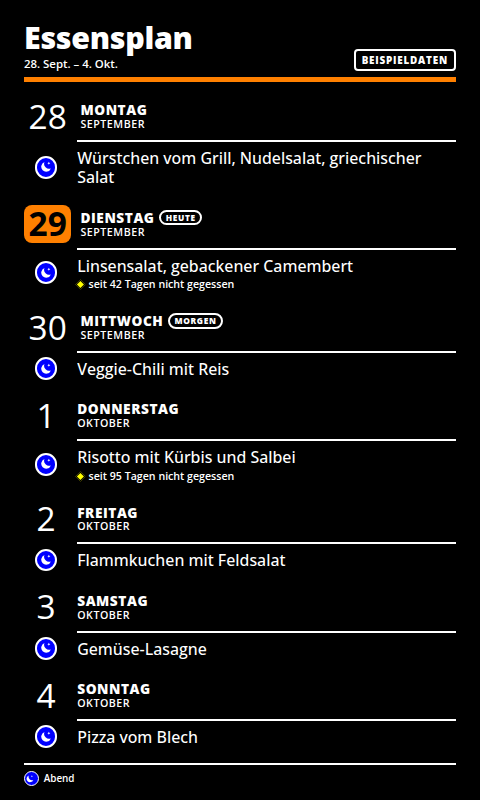
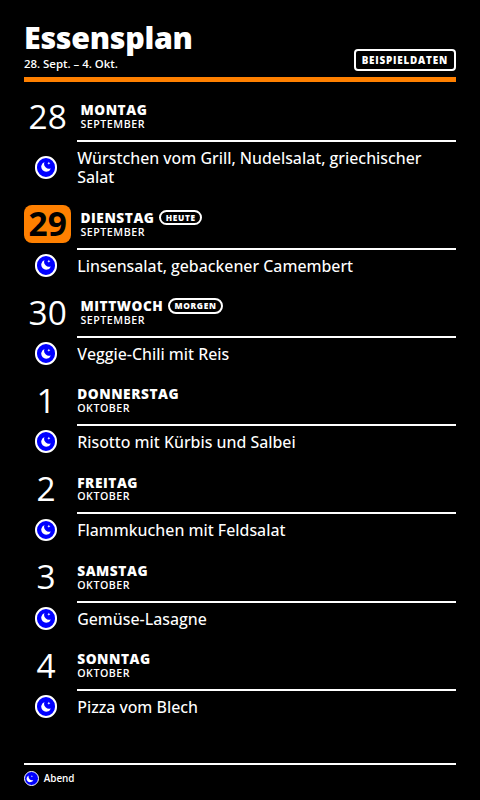
Remove "not eaten for X days" hint from Meal Plan Calendar
The calendar does not carry this information, so drop the history-based
hint, its showLastEaten/lastEatenMinDays settings, the extended history
fetch range, sample history entries, styles, texts, tests and docs.

Claude-Session: https://claude.ai/code/session_016spRLE17zGqgwacGFc512h

Changed region(s): [[0.0625, 0.3125, 0.9375, 0.9375]]

diff --git a/applications/meal-plan-calendar/api/data.js b/applications/meal-plan-calendar/api/data.js
@@ -9,9 +9,6 @@ import {
   stringSetting,
 } from "../../_shared/calendar-feed.js";
 
-// iCloud public feeds keep roughly the last six months; look back a little further
-// so other feeds with longer histories can still report "not eaten for X days".
-const HISTORY_DAYS = 400;
 const MAX_PLAN_DAYS = 14;
 const SLOT_ORDER = ["breakfast", "lunch", "dinner", "other"];
 const SLOT_SETS = {
@@ -35,10 +32,6 @@ const SEPARATOR = /^[\s:|/–—-]+/u;
 export function addDays(key, amount) {
   const [year, month, day] = key.split("-").map(Number);
   return new Date(Date.UTC(year, month - 1, day + amount)).toISOString().slice(0, 10);
-}
-
-export function daysBetween(fromKey, toKey) {
-  return Math.round((Date.parse(`${toKey}T00:00:00Z`) - Date.parse(`${fromKey}T00:00:00Z`)) / 86_400_000);
 }
 
 function weekdayIndex(key) {
@@ -117,14 +110,8 @@ export function planRange({ now, timeZone, days, startDay }) {
   return { today, start, endExclusive: addDays(start, days) };
 }
 
-/** Groups meals into display days, adds empty slot placeholders and "last eaten" hints. */
-export function buildPlan(meals, { today, start, days, slots, showLastEaten = true, lastEatenMinDays = 30 }) {
-  const history = new Map();
-  for (const meal of meals) {
-    if (meal.date >= today) continue;
-    const key = normalizeMealTitle(meal.title);
-    if (key && (!history.has(key) || history.get(key) < meal.date)) history.set(key, meal.date);
-  }
+/** Groups meals into display days and adds placeholders for empty planned slots. */
+export function buildPlan(meals, { start, days, slots }) {
   const plannedSlots = SLOT_SETS[slots] || SLOT_SETS["lunch-dinner"];
   const result = [];
   for (let index = 0; index < days; index += 1) {
@@ -143,13 +130,7 @@ export function buildPlan(meals, { today, start, days, slots, showLastEaten = tr
       const dedupeKey = `${entry.slot}:${normalizeMealTitle(entry.title)}`;
       if (seen.has(dedupeKey)) continue;
       seen.add(dedupeKey);
-      let lastEatenDays = null;
-      const last = history.get(normalizeMealTitle(entry.title));
-      if (showLastEaten && date >= today && last) {
-        const gap = daysBetween(last, today);
-        if (gap >= lastEatenMinDays) lastEatenDays = gap;
-      }
-      dayMeals.push({ slot: entry.slot, title: entry.title, lastEatenDays });
+      dayMeals.push({ slot: entry.slot, title: entry.title });
     }
     for (const slot of plannedSlots) {
       if (!dayMeals.some((meal) => meal.slot === slot)) dayMeals.push({ slot, title: "", empty: true });
@@ -194,11 +175,6 @@ export function sampleEvents(start, language, slots = "lunch-dinner") {
     }
     events.push({ id: `sample-d-${index}`, title: dinner, start: { date }, end: { date: addDays(date, 1) } });
   }
-  // Past entries let the sample show the "not eaten for X days" hint.
-  for (const [offset, dish] of [[-94, dishes[3][withLunch ? 0 : 1]], [-41, dishes[1][1]]]) {
-    const past = addDays(start, offset);
-    events.push({ id: `sample-history${offset}`, title: dish, start: { date: past }, end: { date: addDays(past, 1) } });
-  }
   return events;
 }
 
@@ -213,11 +189,7 @@ export default async function handler({ query = {} }) {
   const slots = SLOT_SETS[slotsSetting] ? slotsSetting : "lunch-dinner";
   const allDaySetting = stringSetting(query, "allDayMeal", "dinner");
   const allDayMeal = ALL_DAY_SLOTS.has(allDaySetting) ? allDaySetting : "dinner";
-  const showLastEaten = booleanSetting(query, "showLastEaten", true);
-  const lastEatenMinDays = integerSetting(query, "lastEatenMinDays", 30, 1, 3650);
   const range = planRange({ now: stringSetting(query, "now", ""), timeZone, days, startDay });
-  const historyStart = addDays(range.today, -HISTORY_DAYS);
-  const fetchFrom = historyStart < range.start ? historyStart : range.start;
 
   let events;
   let calendarName = "";
@@ -226,7 +198,7 @@ export default async function handler({ query = {} }) {
   } else {
     const ics = await fetchCalendarFeed({ feedUrl: calendarUrl });
     const parsed = parseCalendarFeed(ics, {
-      from: fetchFrom,
+      from: range.start,
       to: range.endExclusive,
       timeZone,
       maxEvents: 5000,
@@ -236,7 +208,7 @@ export default async function handler({ query = {} }) {
   }
 
   const meals = eventsToMeals(events, { timeZone, allDayMeal, rangeEndExclusive: range.endExclusive });
-  const plan = buildPlan(meals, { ...range, days, slots, showLastEaten, lastEatenMinDays });
+  const plan = buildPlan(meals, { ...range, days, slots });
 
   return {
     sample,

diff --git a/applications/meal-plan-calendar/assets/render.js b/applications/meal-plan-calendar/assets/render.js
@@ -21,8 +21,6 @@ const defaults = {
   startDay: "today",
   slots: "lunch-dinner",
   allDayMeal: "dinner",
-  showLastEaten: true,
-  lastEatenMinDays: 30,
   timeZone: "Europe/Berlin",
   showHeader: true,
   sampleData: false,
@@ -119,20 +117,12 @@ function renderMeal(meal, previousSlot, messages) {
   const classes = ["mp-meal"];
   if (meal.empty) classes.push("is-empty");
   if (meal.slot === previousSlot) classes.push("is-repeat");
-  let note = "";
-  if (Number.isFinite(meal.lastEatenDays)) {
-    const text =
-      meal.lastEatenDays === 1
-        ? messages.lastEatenOne
-        : fill(messages.lastEaten, { days: meal.lastEatenDays });
-    note = `<span class="mp-note">${escapeHtml(text)}</span>`;
-  }
   // Bound pathological calendar titles; the layout fit handles everything shorter.
   const raw = meal.empty ? messages.notPlanned : meal.title;
   const title = raw.length > MAX_TITLE ? `${raw.slice(0, MAX_TITLE).replace(/\s+\S*$/, "")}…` : raw;
   return `<li class="${classes.join(" ")}" data-slot="${escapeHtml(meal.slot)}">
     ${slotBadge(meal.slot, slotLabel)}
-    <span class="mp-text"><span class="mp-title">${escapeHtml(title)}</span>${note}</span>
+    <span class="mp-text"><span class="mp-title">${escapeHtml(title)}</span></span>
   </li>`;
 }
 
@@ -265,8 +255,6 @@ async function loadPlan(settings, language) {
       startDay: settings.startDay,
       slots: settings.slots,
       allDayMeal: settings.allDayMeal,
-      showLastEaten: settings.showLastEaten,
-      lastEatenMinDays: settings.lastEatenMinDays,
       timeZone: settings.timeZone,
       sampleData: settings.sampleData,
       now: settings.now,

diff --git a/applications/meal-plan-calendar/render.html b/applications/meal-plan-calendar/render.html
@@ -233,24 +233,6 @@
         color: var(--pp-fg);
         border: var(--mp-line) dashed var(--pp-fg);
       }
-      .mp-note {
-        display: flex;
-        align-items: center;
-        gap: calc(var(--k) * 6);
-        margin-top: calc(var(--k) * 3);
-        font-size: calc(var(--k) * 14);
-        font-weight: 600;
-        line-height: 1.2;
-      }
-      .mp-note::before {
-        content: "";
-        flex-shrink: 0;
-        width: calc(var(--k) * 9);
-        height: calc(var(--k) * 9);
-        background: var(--pp-yellow);
-        border: calc(var(--u) * 1.5) solid var(--pp-black);
-        transform: rotate(45deg);
-      }
       .mp-nothing {
         margin: 0;
         padding: calc(var(--k) * 8) 0 calc(var(--k) * 8) calc(var(--k) * 70);
@@ -398,13 +380,6 @@
           display: inline;
           font-size: calc(var(--k) * 17);
           line-height: 1.24;
-        }
-        .mp-note {
-          font-size: calc(var(--k) * 12);
-          align-items: flex-start;
-        }
-        .mp-note::before {
-          margin-top: calc(var(--k) * 3);
         }
         .mp-nothing {
           padding-left: 0;

diff --git a/README.md b/README.md
@@ -140,7 +140,7 @@ For local development, use `http://localhost:3000/<slug>/config.json`.
 | <img src="applications/language-learning/assets/icon.png" alt="" width="200" height="200">                 | [Language Learning](applications/language-learning/README.md)                       | [run](https://integrations.paperlesspaper.de/language-learning/run)           | [config](https://integrations.paperlesspaper.de/language-learning/config.json)           | Shows a deterministic foreign-language word of the day with pronunciation, translation, example, and a small practice prompt.                  |
 | <img src="applications/losung/assets/icon.png" alt="" width="200" height="200">                            | [Losung](applications/losung/README.md)                                             | [run](https://integrations.paperlesspaper.de/losung/run)                      | [config](https://integrations.paperlesspaper.de/losung/config.json)                      | Shows the daily Losung and Lehrtext Bible readings from losungen.de.                                                                           |
 | <img src="applications/mastodon/assets/icon.png" alt="" width="200" height="200">                          | [Mastodon](applications/mastodon/README.md)                                         | [run](https://integrations.paperlesspaper.de/mastodon/run)                    | [config](https://integrations.paperlesspaper.de/mastodon/config.json)                    | Shows Mastodon timelines, hashtag streams, and profile feeds as compact eInk-friendly social cards.                                            |
-| <img src="applications/meal-plan-calendar/assets/icon.png" alt="" width="200" height="200">                | [Meal Plan Calendar](applications/meal-plan-calendar/README.md)                     | [run](https://integrations.paperlesspaper.de/meal-plan-calendar/run)          | [config](https://integrations.paperlesspaper.de/meal-plan-calendar/config.json)          | Shows a family meal plan from a shared iCloud calendar with lunch and dinner per day and a hint for dishes not eaten for a while.            |
+| <img src="applications/meal-plan-calendar/assets/icon.png" alt="" width="200" height="200">                | [Meal Plan Calendar](applications/meal-plan-calendar/README.md)                     | [run](https://integrations.paperlesspaper.de/meal-plan-calendar/run)          | [config](https://integrations.paperlesspaper.de/meal-plan-calendar/config.json)          | Shows a family meal plan from a shared iCloud calendar with breakfast, lunch and dinner per day.                                             |
 | <img src="applications/memo-medication-times/assets/icon.png" alt="" width="200" height="200">             | [Memo Medication Times](applications/memo-medication-times/README.md)               | [run](https://integrations.paperlesspaper.de/memo-medication-times/run)       | [config](https://integrations.paperlesspaper.de/memo-medication-times/config.json)       | Shows ANABOX smart medication intake times with medication colors, date header, last update, and a full-screen reminder during intake windows. |
 | <img src="applications/moon-phase/assets/icon.png" alt="" width="200" height="200">                        | [Moon Phase](applications/moon-phase/README.md)                                     | [run](https://integrations.paperlesspaper.de/moon-phase/run)                  | [config](https://integrations.paperlesspaper.de/moon-phase/config.json)                  | Shows the moon phase for a chosen date, with illumination, moon age, hemisphere, and an optional next major phase estimate.                    |
 | <img src="applications/newsstand/assets/icon.png" alt="" width="200" height="200">                         | [Newsstand](applications/newsstand/README.md)                                       | [run](https://integrations.paperlesspaper.de/newsstand/run)                   | [config](https://integrations.paperlesspaper.de/newsstand/config.json)                   | Shows a fresh newspaper front page from Riley Walz's Papers archive.                                                                           |

diff --git a/applications/meal-plan-calendar/README.md b/applications/meal-plan-calendar/README.md
@@ -2,8 +2,7 @@
 
 Shows a family meal plan ("Essensplan") that lives in a shared iCloud calendar. Every day gets a large
 date and its meals grouped into breakfast, lunch, and dinner. Open slots appear as
-"not planned yet", and dishes that have not been on the table for a while get a small
-"not eaten for X days" hint, computed from the calendar's own history.
+"not planned yet".
 
 Landscape frames show one column per day like a paper week planner; portrait frames show a vertical
 list. Days that do not fit are left out from the end and counted in the footer.
@@ -37,10 +36,6 @@ Prefixes may also be written as `[Mittag] …` or `(Abend) …` and are removed 
 Multi-day all-day entries (e.g. leftovers for two days) repeat on each day. Identical dishes in the
 same slot are shown once.
 
-"Not eaten for X days" compares the normalized title (case, spaces, punctuation, and accents ignored)
-with the most recent past entry. iCloud public feeds only contain roughly the last six months, so
-older history cannot be counted.
-
 ## Settings
 
 | Setting | Default | Description |
@@ -51,8 +46,6 @@ older history cannot be counted.
 | `startDay` | `today` | `today` or `monday` of the current week. |
 | `slots` | `lunch-dinner` | Slots shown as "not planned yet" when empty: `lunch-dinner`, `dinner`, `all`, `none`. |
 | `allDayMeal` | `dinner` | Slot for all-day entries without prefix: `dinner`, `lunch`, `breakfast`, `other`. |
-| `showLastEaten` | `true` | Show the "not eaten for X days" hint. |
-| `lastEatenMinDays` | `30` | Minimum gap before the hint appears. |
 | `timeZone` | `Europe/Berlin` | IANA time zone for "today" and timed entries. |
 | `showHeader` | `true` | Show title, date range, and sample label. |
 
